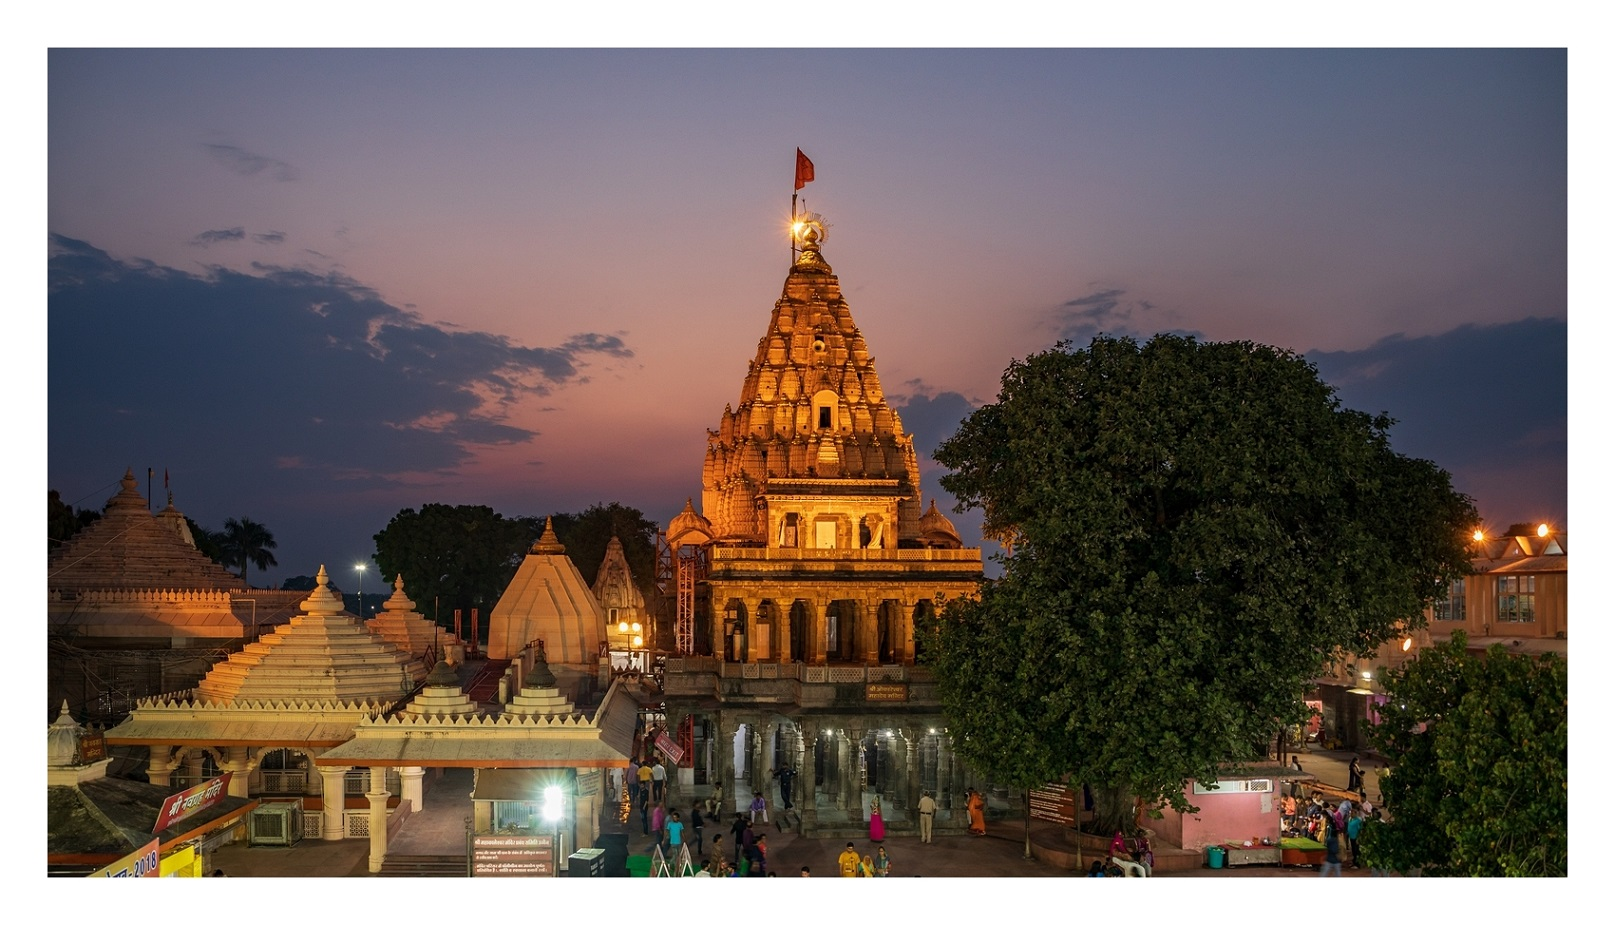
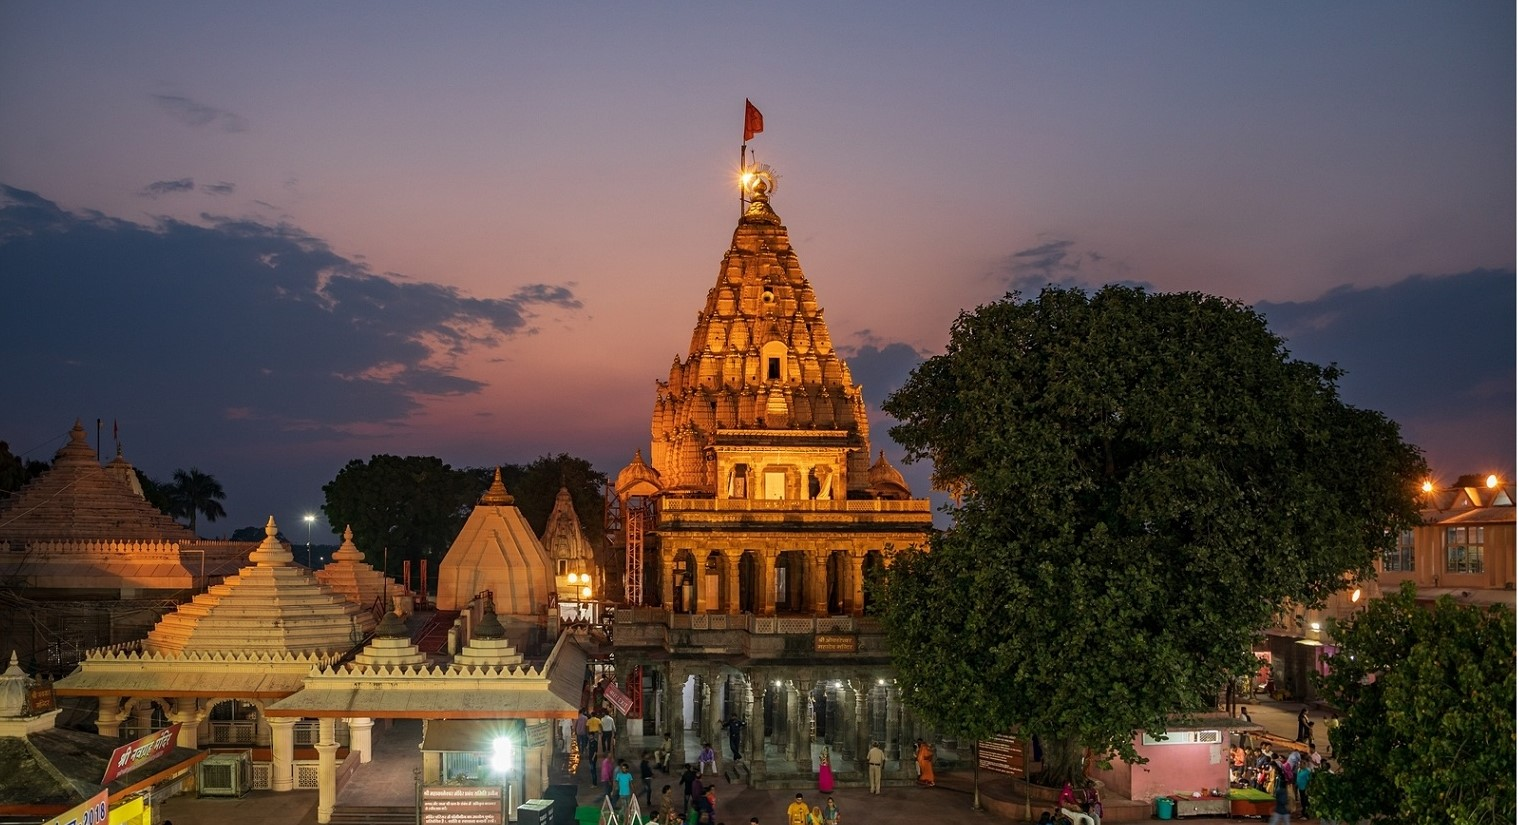
jaii

diff --git a/pages/Components/Testimonial.jsx b/pages/Components/Testimonial.jsx
@@ -9,100 +9,107 @@ const TestimonialAndTrustedBy = () => {
   const TestimonialData = [
     {
       id: 1,
-      image: "/images/css-3.jpg",
+      image: "/images/guest-1.jpg",
       content:
-        "Synth chartreuse iPhone lomo cray raw denim brunch everyday carry neutra before they sold out fixie 90's microdosing. Tacos pinterest fanny pack venmo, post-ironic heirloom try-hard pabst authentic iceland.",
-      name: "John Doe",
-      role: "UI Developer",
+        "Our stay at this homestay was beyond amazing! The hosts were incredibly welcoming, and the ambiance made us feel at home. We loved waking up to the scenic views and peaceful environment every day.",
+      name: "Emily Johnson",
+      role: "Guest from New York",
     },
     {
       id: 2,
-      image: "/images/person.jpg",
+      image: "/images/guest-2.jpg",
       content:
-        "Synth chartreuse iPhone lomo cray raw denim brunch everyday carry neutra before they sold out fixie 90's microdosing. Tacos pinterest fanny pack venmo, post-ironic heirloom try-hard pabst authentic iceland.",
-      name: "John Doe",
-      role: "UI Developer",
+        "The homestay was perfect for our family vacation. The rooms were cozy, and the food was delicious. The kids especially enjoyed the garden and outdoor activities. Definitely coming back!",
+      name: "David Lee",
+      role: "Family Guest",
     },
     {
       id: 3,
-      image: "/images/person.jpg",
+      image: "/images/guest-3.jpg",
       content:
-        "Synth chartreuse iPhone lomo cray raw denim brunch everyday carry neutra before they sold out fixie 90's microdosing. Tacos pinterest fanny pack venmo, post-ironic heirloom try-hard pabst authentic iceland.",
-      name: "John Doe",
-      role: "UI Developer",
+        "I had an unforgettable experience at this homestay. The personalized service, attention to detail, and the warmth of the hosts made all the difference. Highly recommend .",
+      name: "Sophia Martinez",
+      role: "Solo Traveler",
     },
     {
       id: 4,
-      image: "/images/person.jpg",
+      image: "/images/guest-4.jpg",
       content:
-        "Synth chartreuse iPhone lomo cray raw denim brunch everyday carry neutra before they sold out fixie 90's microdosing. Tacos pinterest fanny pack venmo, post-ironic heirloom try-hard pabst authentic iceland.",
-      name: "John Doe",
-      role: "UI Developer",
+        "The perfect escape from city life! The homestay offered serene views, excellent hospitality, and a truly relaxing environment. It was exactly what we needed for our weekend retreat.",
+      name: "Michael Brown",
+      role: "Couple from London",
     },
   ];
 
   return (
     <>
       {/* Testimonial Section */}
-      <section className="text-gray-600 bg-properties/5 pb-6 pt-6 my-6">
-        <div className="py-4">
-          <div className="lg:max-w-[1300px] px-4 md:px-8 mx-auto">
-            <h2 className="lg:text-2xl text-lg uppercase font-manrope mb-5 lg:mb-8 font-extrabold text-neutral-800 text-center mx-auto">
-              Testimonials
-            </h2>
-            <Swiper
-              slidesPerView={2}
-              spaceBetween={30}
-              freeMode={true}
-              loop={true}
-              autoplay={{
-                delay: 3000,
-                disableOnInteraction: false,
-              }}
-              modules={[FreeMode, Pagination, Autoplay]}
-              breakpoints={{
-                276: {
-                  slidesPerView: 1,
-                },
-                768: {
-                  slidesPerView: 2,
-                },
-                1024: {
-                  slidesPerView: 3,
-                },
-              }}
-              className="mySwiper">
-              {TestimonialData.map((data) => (
-                <SwiperSlide key={data.id}>
-                  <div>
-                    <div className="w-full text-gray-600">
-                      <div className="h-full rounded-2xl border bg-white border-gray-300">
-                        <p className="leading-relaxed mb-6 text-[15px] px-5 pt-5">
-                          {data.content}
-                        </p>
-                        <div className="inline-flex items-center bg-gray-100 px-5 pt-2 pb-[6px] rounded-b-2xl w-full">
-                          <Image
-                            src={data.image}
-                            alt=""
-                            className="w-12 h-12 rounded-full object-cover object-center"
-                            width={80}
-                            height={100}></Image>
-                          <span className="flex-grow flex flex-col pl-4">
-                            <span className="font-semibold text-neutral-800">
-                              {data.name}
-                            </span>
-                            <span className="text-gray-600 text-sm">
-                              {data.role}
-                            </span>
+      <section className="py-20 px-16 bg-gray-50">
+        <div className="w-full mx-auto">
+          <div className="mb-12 text-center">
+            <h4 className="text-4xl font-extrabold text-green-600 mb-2">
+              Guest Testimonials
+            </h4>
+            <p className="text-lg text-gray-600">
+              Hear what our guests have to say about their stay
+            </p>
+          </div>
+
+          {/* Swiper */}
+          <Swiper
+            slidesPerView={1}
+            spaceBetween={30}
+            loop={true}
+            autoplay={{
+              delay: 3000,
+              disableOnInteraction: false,
+            }}
+            breakpoints={{
+              640: {
+                slidesPerView: 1,
+                spaceBetween: 20,
+              },
+              768: {
+                slidesPerView: 2,
+                spaceBetween: 30,
+              },
+              1024: {
+                slidesPerView: 3,
+                spaceBetween: 40,
+              },
+            }}
+            className="swiper-container mb-10">
+            {TestimonialData.map((data) => (
+              <SwiperSlide key={data.id}>
+                <div className="swiper-slide-content">
+                  <div className="w-full text-gray-600">
+                    <div className="h-full rounded-xl border bg-white border-gray-300 shadow-lg">
+                      <p className="leading-relaxed mb-6 text-[15px] px-5 pt-5 text-gray-700">
+                        {data.content}
+                      </p>
+                      <div className="inline-flex items-center bg-gray-100 px-5 pt-2 pb-[6px] rounded-b-xl w-full">
+                        <Image
+                          src={data.image}
+                          alt={data.name}
+                          className="w-12 h-12 rounded-full object-cover object-center"
+                          width={80}
+                          height={100}
+                        />
+                        <span className="flex-grow flex flex-col pl-4">
+                          <span className="font-semibold text-gray-800">
+                            {data.name}
                           </span>
-                        </div>
+                          <span className="text-gray-600 text-sm">
+                            {data.role}
+                          </span>
+                        </span>
                       </div>
                     </div>
                   </div>
-                </SwiperSlide>
-              ))}
-            </Swiper>
-          </div>
+                </div>
+              </SwiperSlide>
+            ))}
+          </Swiper>
         </div>
       </section>
     </>

diff --git a/pages/Components/Third.js b/pages/Components/Third.js
@@ -1,12 +1,11 @@
 import { Swiper, SwiperSlide } from "swiper/react";
-import { Navigation, Pagination } from "swiper/modules";
 import "swiper/css";
 import "swiper/css/navigation";
 import "swiper/css/pagination";
 
 const DestinationsNearby = () => {
   return (
-    <section className="py-20 bg-gray-50">
+    <section className="py-20 px-16 bg-gray-50">
       <div className="w-full mx-auto">
         <div className="mb-12 text-center">
           <h4 className="text-4xl font-extrabold text-green-600 mb-2">
@@ -44,7 +43,7 @@ const DestinationsNearby = () => {
                 src="/images/card-1.jpg"
                 loading="lazy"
                 alt="Mahakal Temple"
-                className="w-full h-64 object-cover rounded-xl shadow-lg"
+                className="w-full h-80  object-cover rounded-xl shadow-lg"
               />
               <div className="text-center mt-4 font-semibold text-gray-700">
                 Mahakaleshwar Jyotirlinga
@@ -59,7 +58,7 @@ const DestinationsNearby = () => {
                 src="/images/card-2.jpg"
                 loading="lazy"
                 alt="Isckon Temple"
-                className="w-full h-64 object-cover rounded-xl shadow-lg"
+                className="w-full h-80 object-cover rounded-xl shadow-lg "
               />
               <div className="text-center mt-4 font-semibold text-gray-700">
                 Isckon Temple
@@ -71,26 +70,26 @@ const DestinationsNearby = () => {
           <SwiperSlide>
             <div className="swiper-slide-content">
               <img
-                src="/images/card-2.jpg"
+                src="/images/card-6.jpg"
                 loading="lazy"
                 alt="Isckon Temple"
-                className="w-full h-64 object-cover rounded-xl shadow-lg"
+                className="w-full h-80 object-cover rounded-xl shadow-lg"
               />
               <div className="text-center mt-4 font-semibold text-gray-700">
-                Isckon Temple
+                Ram Ghat
               </div>
             </div>
           </SwiperSlide>
           <SwiperSlide>
             <div className="swiper-slide-content">
               <img
-                src="/images/card-2.jpg"
+                src="/images/card-4.webp"
                 loading="lazy"
                 alt="Isckon Temple"
-                className="w-full h-64 object-cover rounded-xl shadow-lg"
+                className="w-full h-80 object-cover rounded-xl shadow-lg"
               />
               <div className="text-center mt-4 font-semibold text-gray-700">
-                Isckon Temple
+                Mahakal Lok
               </div>
             </div>
           </SwiperSlide>

diff --git a/pages/Components/Footer.js b/pages/Components/Footer.js
@@ -62,7 +62,7 @@ const Footer = () => {
           <p className="mb-0">
             Copyright &nbsp;
             {new Date().getFullYear()} - A N NOUFEL &nbsp; | Website Designed
-            and Developed By &nbsp;
+            and Developed By{" "}
             <a href="https://www.honeycombindia.net" className="text-success">
               Mayank and Aaradhya
             </a>

diff --git a/pages/Components/First.js b/pages/Components/First.js
@@ -4,7 +4,7 @@ const SocialMediaSection = () => {
   return (
     <section className=" h-[88vh] relative w-full">
       <img
-        src="/images/img11.jpg"
+        src="/images/first.webp"
         alt="Your Image"
         className="object-cover w-full h-full"
       />
